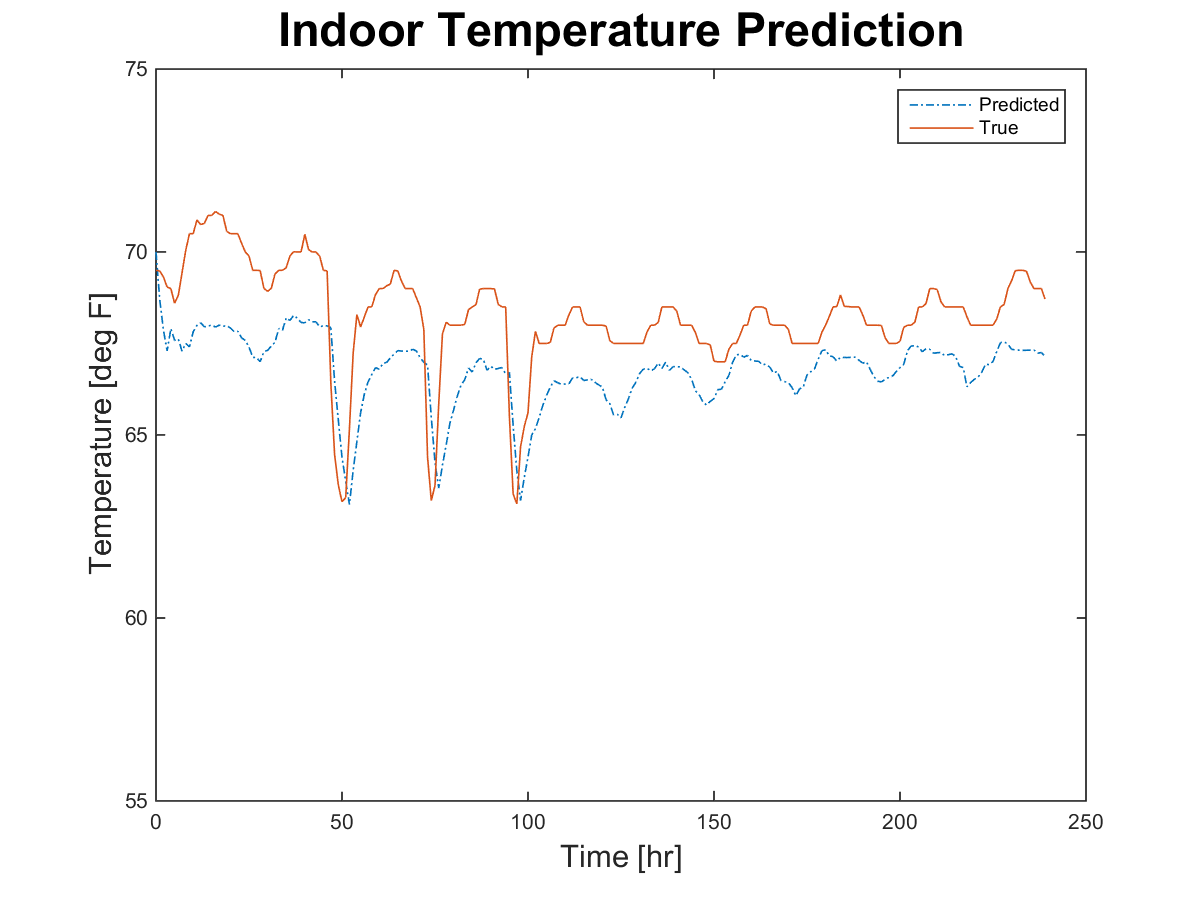
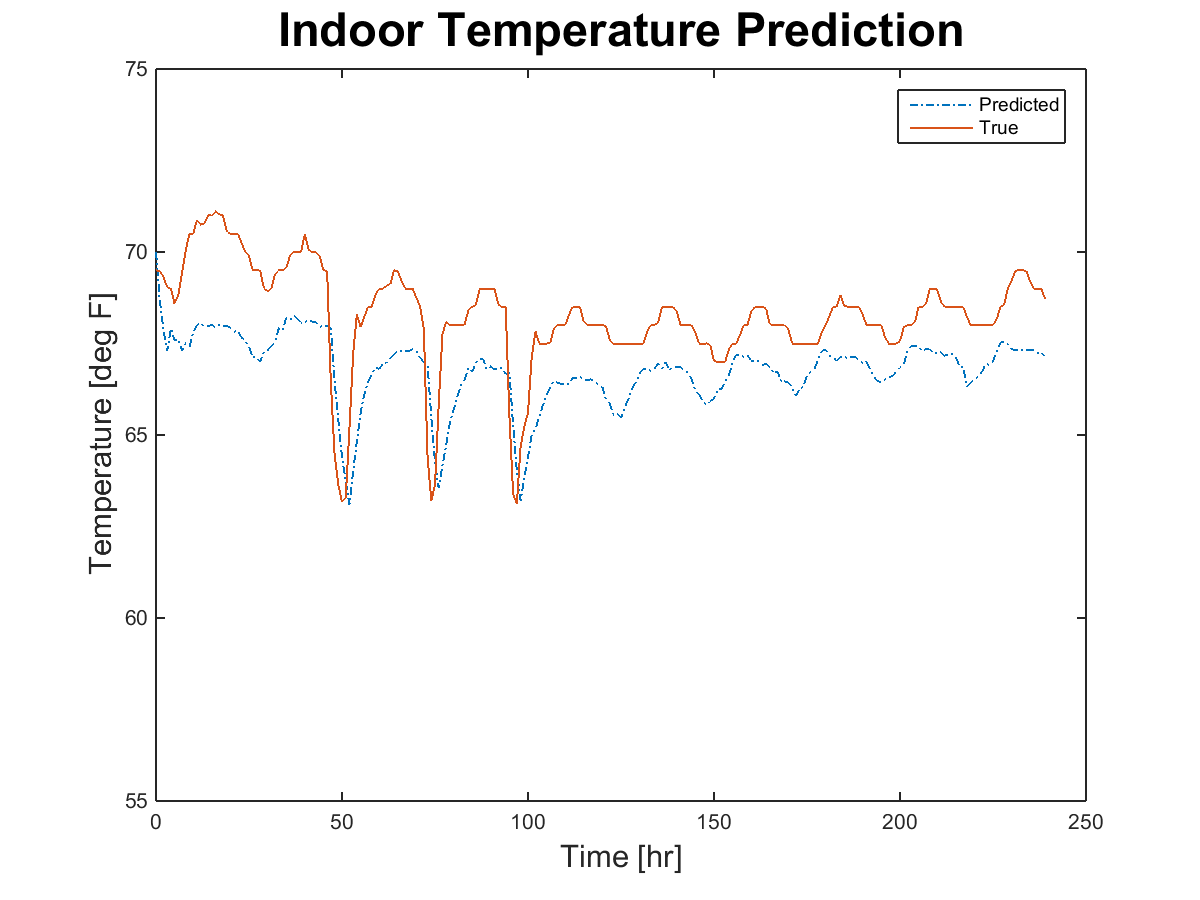
images for best p

diff --git a/Non_linear_params_id.m b/Non_linear_params_id.m
@@ -116,6 +116,8 @@ p
 
 save('p_values.mat','p');
 
+load('Best_p_values.mat');
+
 Theta_Hat = p;
 % Simulate inital parameters
 
